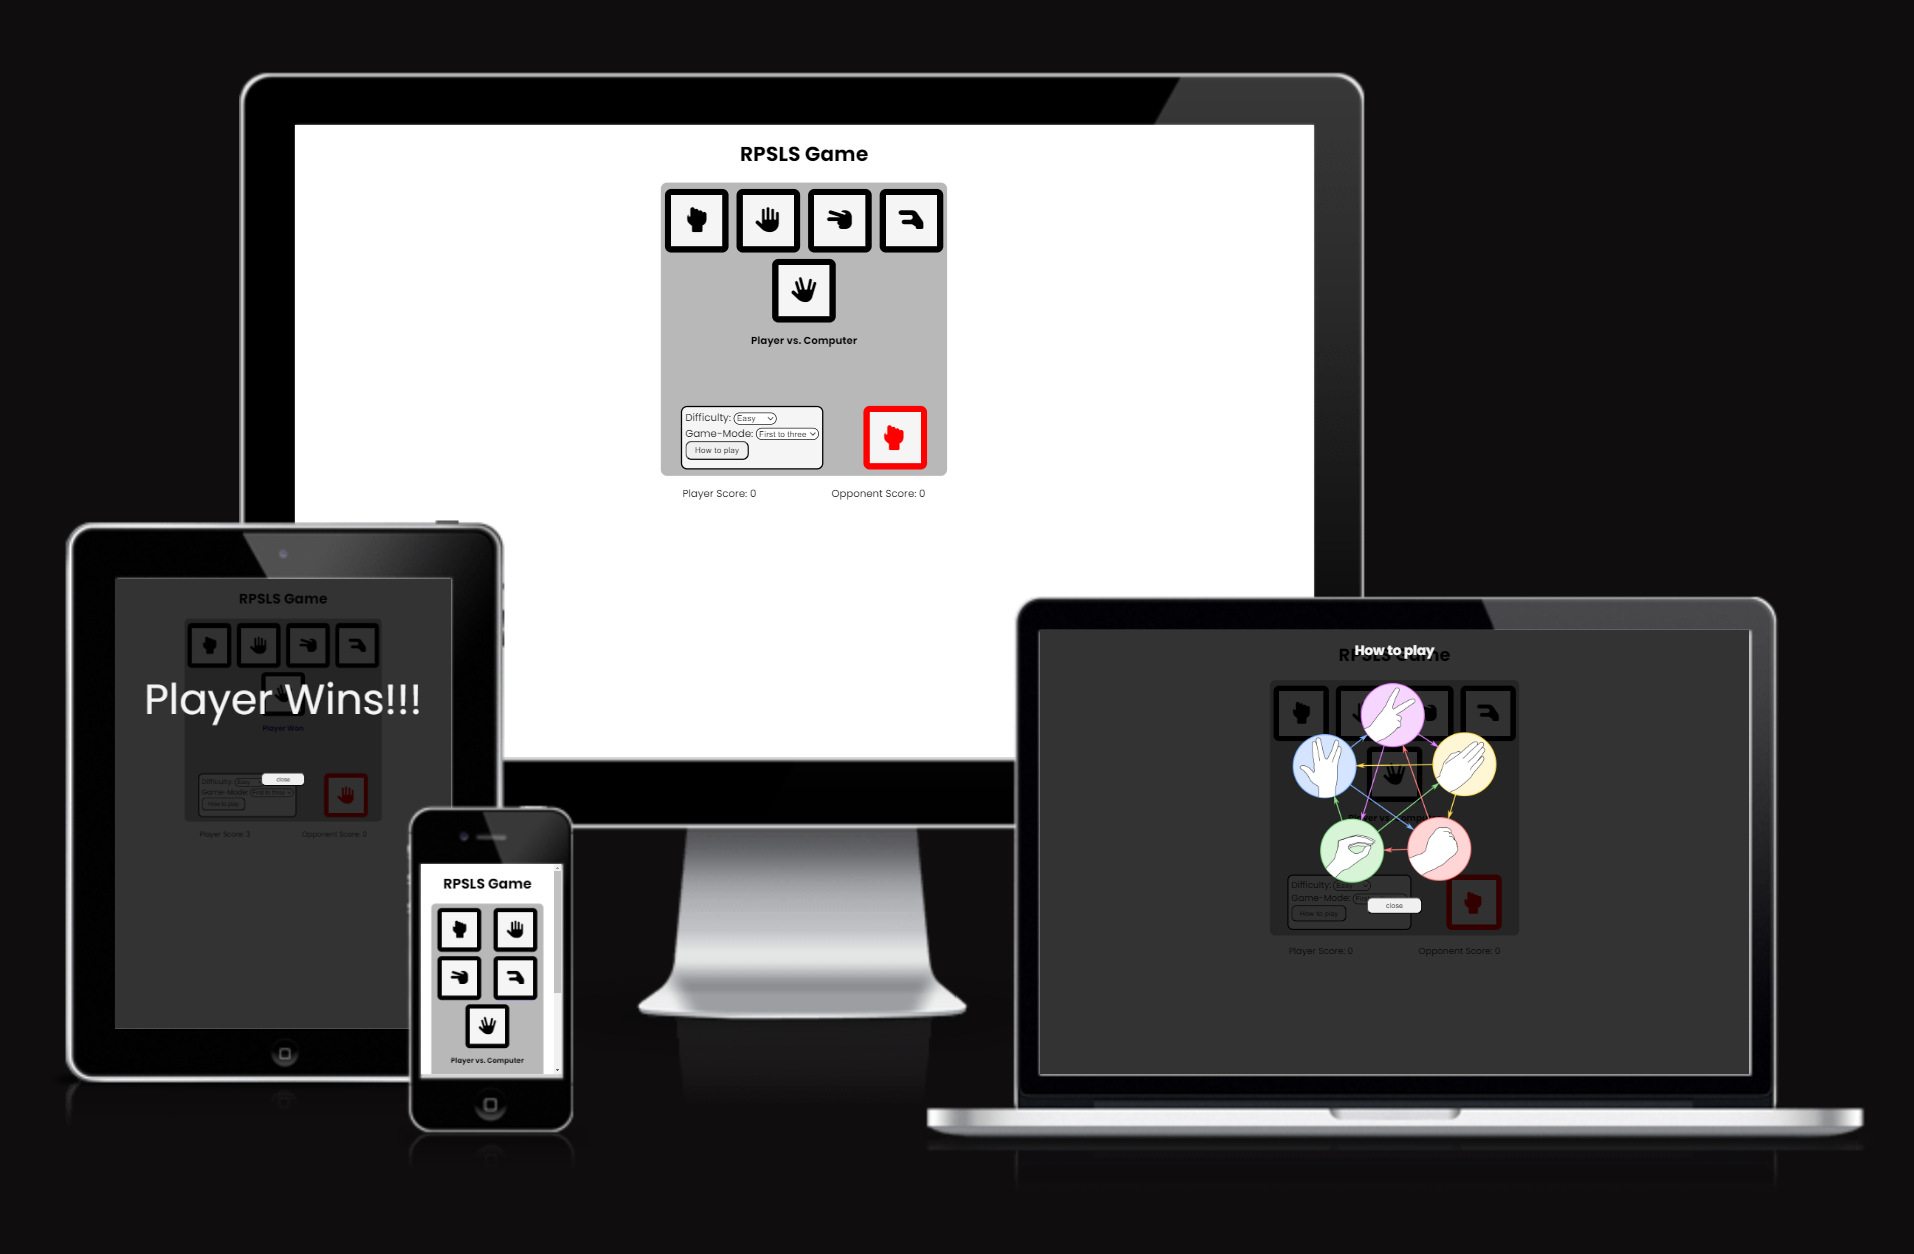
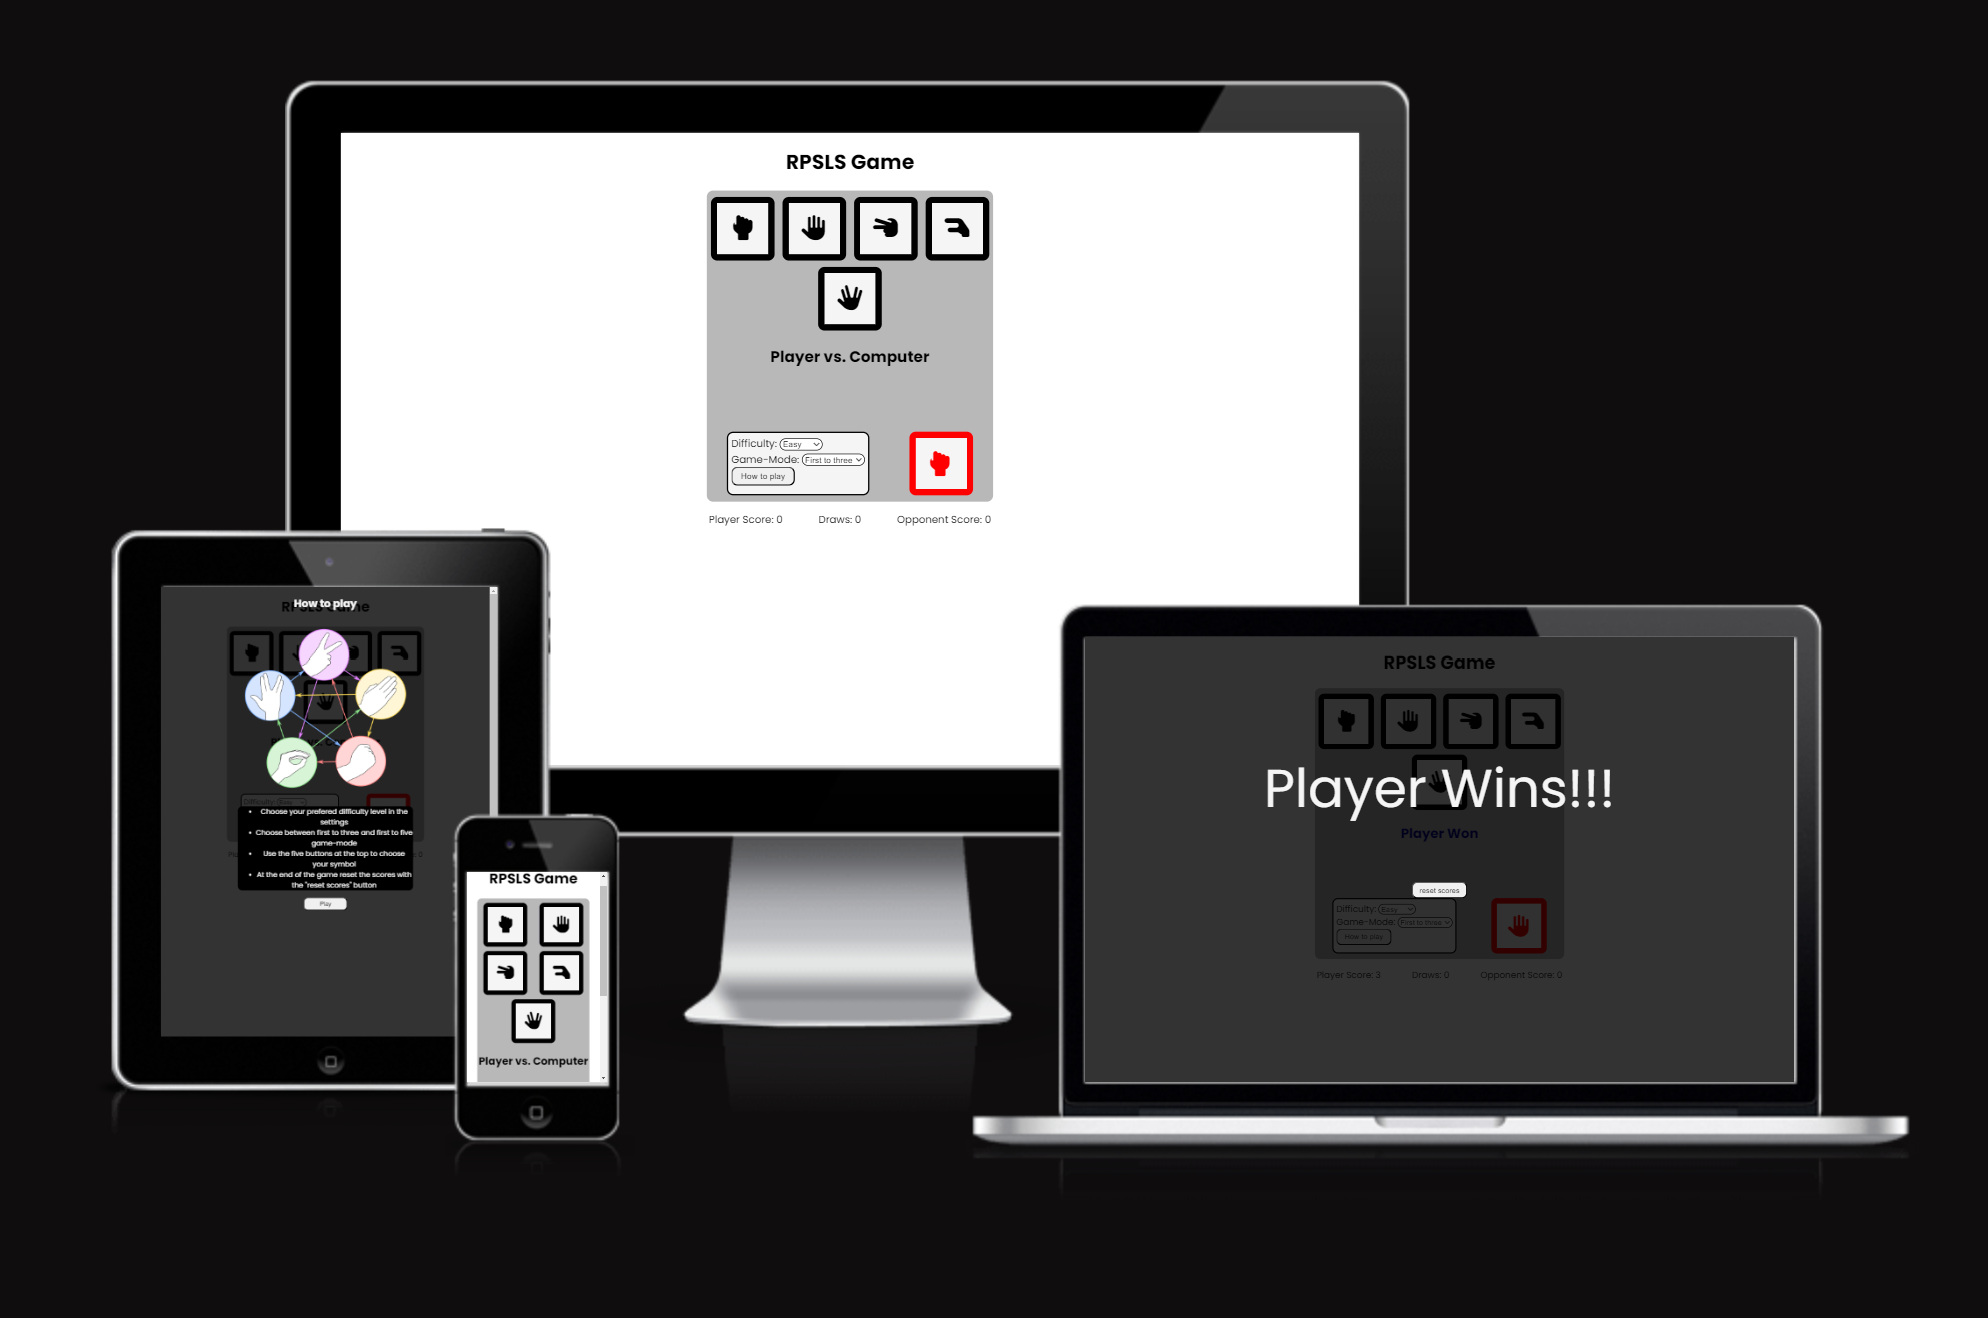
Change more screenshots in readme.md

Changed region(s): [[0.0308, 0.0311, 0.9864, 0.933]]

diff --git a/index.html b/index.html
@@ -1,5 +1,6 @@
 <!DOCTYPE html>
 <html lang="en">
+
 <head>
     <meta charset="UTF-8">
     <meta name="viewport" content="width=device-width, initial-scale=1.0">
@@ -18,15 +19,19 @@
     <link rel="icon" type="image/png" sizes="16x16" href="assets/favicon/favicon-16x16.png">
 
 </head>
+
 <body>
     <h1 class="heading">RPSLS Game</h1>
     <main id="game-area">
         <!-- Player Area -->
         <div id="button-area">
-            <button aria-label="rock" data-type="rock" class="button"><i class="fa-solid fa-hand-back-fist"></i></button>
+            <button aria-label="rock" data-type="rock" class="button"><i
+                    class="fa-solid fa-hand-back-fist"></i></button>
             <button aria-label="paper" data-type="paper" class="button"><i class="fa-solid fa-hand"></i></button>
-            <button aria-label="scissors" data-type="scissors" class="button"><i class="fa-solid fa-hand-scissors"></i></button>
-            <button aria-label="lizard" data-type="lizard" class="button"><i class="fa-solid fa-hand-lizard"></i></button>
+            <button aria-label="scissors" data-type="scissors" class="button"><i
+                    class="fa-solid fa-hand-scissors"></i></button>
+            <button aria-label="lizard" data-type="lizard" class="button"><i
+                    class="fa-solid fa-hand-lizard"></i></button>
             <button aria-label="spock" data-type="spock" class="button"><i class="fa-solid fa-hand-spock"></i></button>
         </div>
         <p id="round-winner">Player vs. Computer</p>
@@ -56,7 +61,7 @@
     <div id="score-area">
         <p class="scores">Player Score: <span id="player-score">0</span></p>
         <p class="scores">Draws: <span id="draw-score">0</span></p>
-        <p class="scores">Opponent Score: <span id="opponent-score">0</span></p> 
+        <p class="scores">Opponent Score: <span id="opponent-score">0</span></p>
     </div>
 
     <!-- Hidden choice storage-->
@@ -85,7 +90,8 @@
     </div>
     <!-- Javascript -->
     <script src="https://kit.fontawesome.com/a5d7c35c03.js" crossorigin="anonymous"></script>
-    
+
     <script src="assets/js/script.js"></script>
 </body>
+
 </html>
